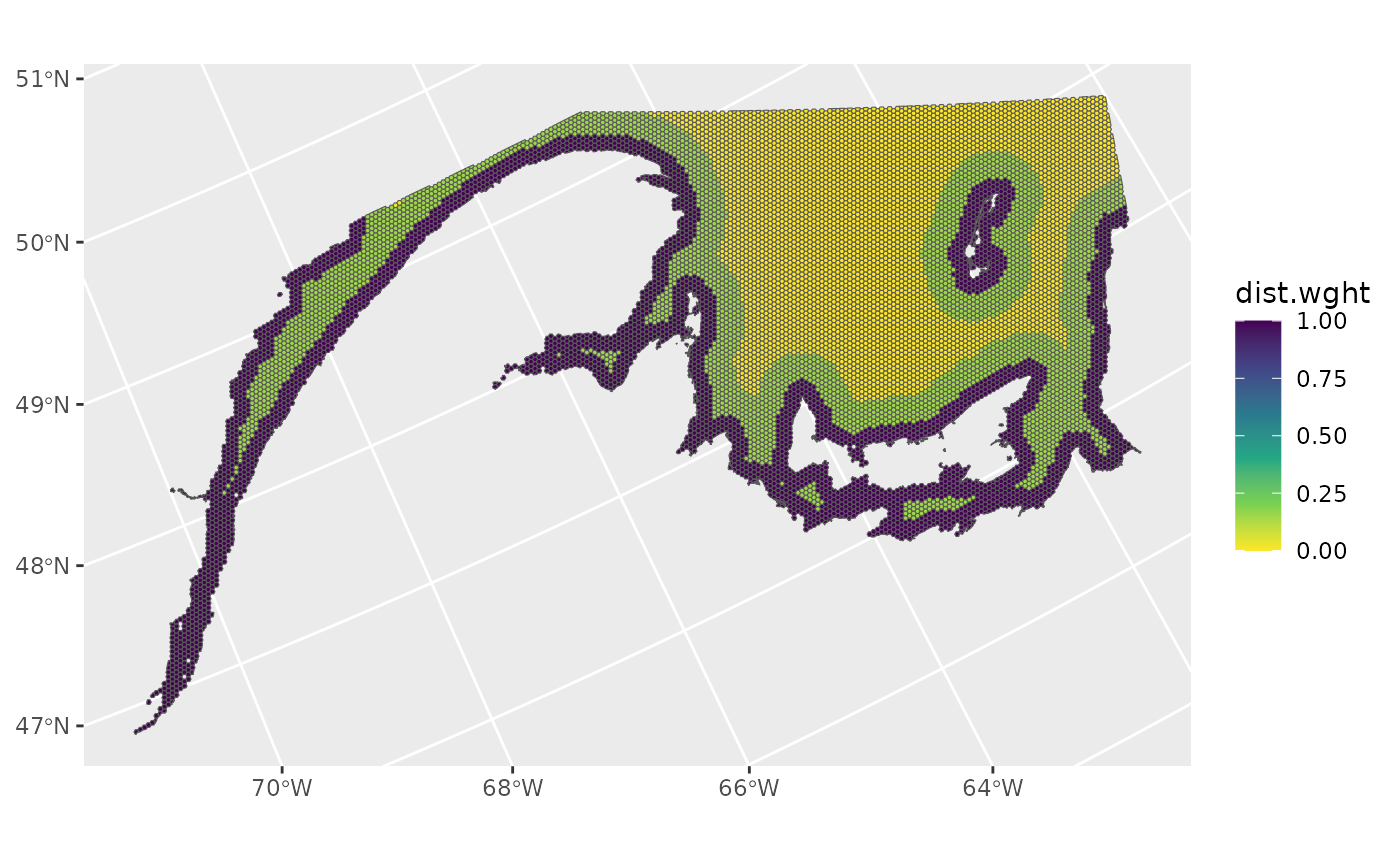
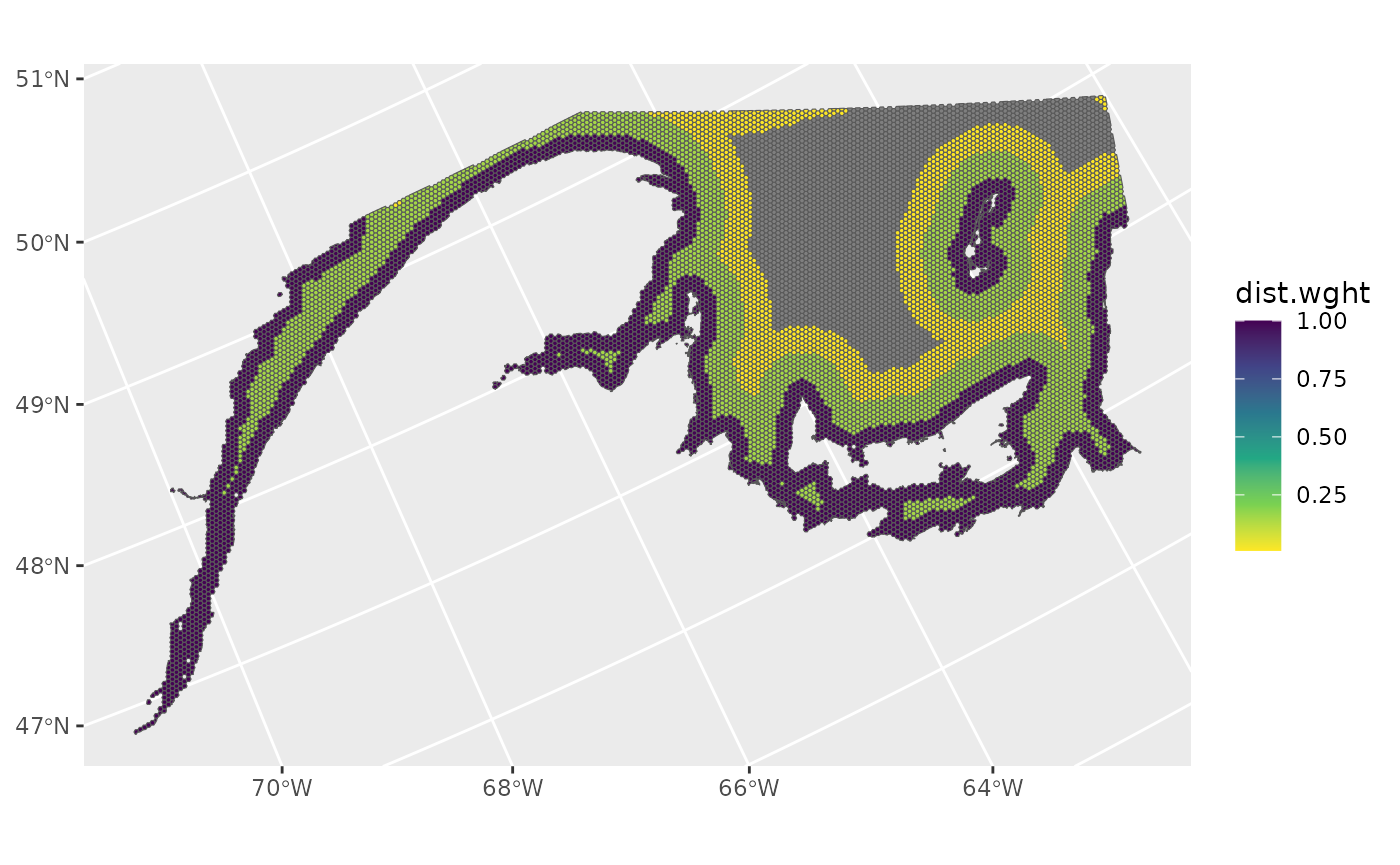
Deploying to gh-pages from @ JoleneSutton/swim@80df3017b0c0322aab3322f0a45f6b9a209e98b2 🚀

diff --git a/articles/distribution_of_sampling_weights.html b/articles/distribution_of_sampling_weights.html
@@ -78,8 +78,8 @@ respectively. Grid cells beyond 50 km are assigned sampling weights of
 <p>Next, sampling weights are generated based on depth. Spatial grid
 cells that have median depths of 10-20 m, and 20-50 m are assigned
 sampling weights of 1 and 0.5, respectively.</p>
-<p>Finally, the two different sampling weights area combined to produce
-a single sampling weight for each spatial grid cell.</p>
+<p>Finally, the two different sampling weights are combined to produce a
+single sampling weight for each spatial grid cell.</p>
 </div>
 <div class="section level2">
 <h2 id="r-packages">R packages<a class="anchor" aria-label="anchor" href="#r-packages"></a>
@@ -161,6 +161,9 @@ respectively. Grid cells beyond 50 km are assigned sampling weights of
 <span><span class="co">#&gt;                2.581e+05 ATE-1219     4.908    4T 8.762         1</span></span>
 <span><span class="co">#&gt;                2.581e+05 ATF-1219     10.57    4T 9.833         1</span></span>
 <span></span>
+<span><span class="co">#for plotting purposes, change values of zero to NA</span></span>
+<span><span class="va">ref_grid</span><span class="op">[</span><span class="fu"><a href="https://rdrr.io/r/base/which.html" class="external-link">which</a></span><span class="op">(</span><span class="va">ref_grid</span><span class="op">$</span><span class="va">dist.wght</span><span class="op">==</span><span class="fl">0</span><span class="op">)</span>,<span class="st">'dist.wght'</span><span class="op">]</span><span class="op">&lt;-</span><span class="cn">NA</span></span>
+<span></span>
 <span><span class="fu"><a href="https://ggplot2.tidyverse.org/reference/ggplot.html" class="external-link">ggplot</a></span><span class="op">(</span><span class="op">)</span><span class="op">+</span></span>
 <span>  <span class="fu"><a href="https://dieghernan.github.io/tidyterra/reference/ggspatvector.html" class="external-link">geom_spatvector</a></span><span class="op">(</span>data<span class="op">=</span><span class="va">ref_grid</span>,<span class="fu"><a href="https://ggplot2.tidyverse.org/reference/aes.html" class="external-link">aes</a></span><span class="op">(</span>fill<span class="op">=</span><span class="va">dist.wght</span><span class="op">)</span><span class="op">)</span><span class="op">+</span></span>
 <span>  <span class="fu"><a href="https://ggplot2.tidyverse.org/reference/scale_viridis.html" class="external-link">scale_fill_viridis_c</a></span><span class="op">(</span>direction<span class="op">=</span><span class="op">-</span><span class="fl">1</span><span class="op">)</span></span></code></pre></div>
@@ -182,6 +185,21 @@ All other grid cells are assigned sampling weights of 0.</p>
 <span>  <span class="va">ref_grid</span><span class="op">[</span><span class="va">index</span>,<span class="st">'depth.wght'</span><span class="op">]</span><span class="op">&lt;-</span><span class="va">weights</span><span class="op">[</span><span class="va">i</span><span class="op">]</span></span>
 <span>    <span class="op">}</span></span>
 <span></span>
+<span><span class="va">ref_grid</span></span>
+<span><span class="co">#&gt;  class       : SpatVector </span></span>
+<span><span class="co">#&gt;  geometry    : polygons </span></span>
+<span><span class="co">#&gt;  dimensions  : 11124, 7  (geometries, attributes)</span></span>
+<span><span class="co">#&gt;  extent      : 1864640, 2608453, 1092588, 1564352  (xmin, xmax, ymin, ymax)</span></span>
+<span><span class="co">#&gt;  coord. ref. : Canada_Albers_Equal_Area_Conic (ESRI:102001) </span></span>
+<span><span class="co">#&gt;  names       :  OBJECTID  GRID_ID depth.med  nafo  area dist.wght depth.wght</span></span>
+<span><span class="co">#&gt;  type        :     &lt;num&gt;    &lt;chr&gt;     &lt;num&gt; &lt;chr&gt; &lt;num&gt;     &lt;num&gt;      &lt;num&gt;</span></span>
+<span><span class="co">#&gt;  values      :  2.57e+05 ATD-1220     9.867    4T  7.84         1          0</span></span>
+<span><span class="co">#&gt;                2.581e+05 ATE-1219     4.908    4T 8.762         1          0</span></span>
+<span><span class="co">#&gt;                2.581e+05 ATF-1219     10.57    4T 9.833         1          1</span></span>
+<span></span>
+<span><span class="co">#for plotting purposes, change values of zero to NA</span></span>
+<span><span class="va">ref_grid</span><span class="op">[</span><span class="fu"><a href="https://rdrr.io/r/base/which.html" class="external-link">which</a></span><span class="op">(</span><span class="va">ref_grid</span><span class="op">$</span><span class="va">depth.wght</span><span class="op">==</span><span class="fl">0</span><span class="op">)</span>,<span class="st">'depth.wght'</span><span class="op">]</span><span class="op">&lt;-</span><span class="cn">NA</span></span>
+<span></span>
 <span><span class="fu"><a href="https://ggplot2.tidyverse.org/reference/ggplot.html" class="external-link">ggplot</a></span><span class="op">(</span><span class="op">)</span><span class="op">+</span></span>
 <span>  <span class="fu"><a href="https://dieghernan.github.io/tidyterra/reference/ggspatvector.html" class="external-link">geom_spatvector</a></span><span class="op">(</span>data<span class="op">=</span><span class="va">ref_grid</span>,<span class="fu"><a href="https://ggplot2.tidyverse.org/reference/aes.html" class="external-link">aes</a></span><span class="op">(</span>fill<span class="op">=</span><span class="va">depth.wght</span><span class="op">)</span><span class="op">)</span><span class="op">+</span></span>
 <span>  <span class="fu"><a href="https://ggplot2.tidyverse.org/reference/scale_viridis.html" class="external-link">scale_fill_viridis_c</a></span><span class="op">(</span>direction<span class="op">=</span><span class="op">-</span><span class="fl">1</span><span class="op">)</span></span></code></pre></div>
@@ -195,6 +213,23 @@ sampling weights are multiplied to produce a single sampling weight for
 each grid cell.</p>
 <div class="sourceCode" id="cb6"><pre class="downlit sourceCode r">
 <code class="sourceCode R"><span><span class="va">ref_grid</span><span class="op">$</span><span class="va">wght</span><span class="op">&lt;-</span><span class="va">ref_grid</span><span class="op">$</span><span class="va">dist.wght</span><span class="op">*</span><span class="va">ref_grid</span><span class="op">$</span><span class="va">depth.wght</span></span>
+<span></span>
+<span><span class="va">ref_grid</span></span>
+<span><span class="co">#&gt;  class       : SpatVector </span></span>
+<span><span class="co">#&gt;  geometry    : polygons </span></span>
+<span><span class="co">#&gt;  dimensions  : 11124, 8  (geometries, attributes)</span></span>
+<span><span class="co">#&gt;  extent      : 1864640, 2608453, 1092588, 1564352  (xmin, xmax, ymin, ymax)</span></span>
+<span><span class="co">#&gt;  coord. ref. : Canada_Albers_Equal_Area_Conic (ESRI:102001) </span></span>
+<span><span class="co">#&gt;  names       :  OBJECTID  GRID_ID depth.med  nafo  area dist.wght depth.wght</span></span>
+<span><span class="co">#&gt;  type        :     &lt;num&gt;    &lt;chr&gt;     &lt;num&gt; &lt;chr&gt; &lt;num&gt;     &lt;num&gt;      &lt;num&gt;</span></span>
+<span><span class="co">#&gt;  values      :  2.57e+05 ATD-1220     9.867    4T  7.84         1         NA</span></span>
+<span><span class="co">#&gt;                2.581e+05 ATE-1219     4.908    4T 8.762         1         NA</span></span>
+<span><span class="co">#&gt;                2.581e+05 ATF-1219     10.57    4T 9.833         1          1</span></span>
+<span><span class="co">#&gt;   wght</span></span>
+<span><span class="co">#&gt;  &lt;num&gt;</span></span>
+<span><span class="co">#&gt;     NA</span></span>
+<span><span class="co">#&gt;     NA</span></span>
+<span><span class="co">#&gt;      1</span></span>
 <span></span>
 <span><span class="co">#for plotting purposes, change values of zero to NA</span></span>
 <span><span class="va">ref_grid</span><span class="op">[</span><span class="fu"><a href="https://rdrr.io/r/base/which.html" class="external-link">which</a></span><span class="op">(</span><span class="va">ref_grid</span><span class="op">$</span><span class="va">wght</span><span class="op">==</span><span class="fl">0</span><span class="op">)</span>,<span class="st">'wght'</span><span class="op">]</span><span class="op">&lt;-</span><span class="cn">NA</span></span>

diff --git a/articles/distribution_of_sampling_weights.md b/articles/distribution_of_sampling_weights.md
@@ -15,7 +15,7 @@ Next, sampling weights are generated based on depth. Spatial grid cells
 that have median depths of 10-20 m, and 20-50 m are assigned sampling
 weights of 1 and 0.5, respectively.
 
-Finally, the two different sampling weights area combined to produce a
+Finally, the two different sampling weights are combined to produce a
 single sampling weight for each spatial grid cell.
 
 ## R packages
@@ -104,6 +104,9 @@ ref_grid
 #>                2.581e+05 ATE-1219     4.908    4T 8.762         1
 #>                2.581e+05 ATF-1219     10.57    4T 9.833         1
 
+#for plotting purposes, change values of zero to NA
+ref_grid[which(ref_grid$dist.wght==0),'dist.wght']<-NA
+
 ggplot()+
   geom_spatvector(data=ref_grid,aes(fill=dist.wght))+
   scale_fill_viridis_c(direction=-1)
@@ -127,6 +130,21 @@ for(i in 1:length(start.depths)){
   ref_grid[index,'depth.wght']<-weights[i]
     }
 
+ref_grid
+#>  class       : SpatVector 
+#>  geometry    : polygons 
+#>  dimensions  : 11124, 7  (geometries, attributes)
+#>  extent      : 1864640, 2608453, 1092588, 1564352  (xmin, xmax, ymin, ymax)
+#>  coord. ref. : Canada_Albers_Equal_Area_Conic (ESRI:102001) 
+#>  names       :  OBJECTID  GRID_ID depth.med  nafo  area dist.wght depth.wght
+#>  type        :     <num>    <chr>     <num> <chr> <num>     <num>      <num>
+#>  values      :  2.57e+05 ATD-1220     9.867    4T  7.84         1          0
+#>                2.581e+05 ATE-1219     4.908    4T 8.762         1          0
+#>                2.581e+05 ATF-1219     10.57    4T 9.833         1          1
+
+#for plotting purposes, change values of zero to NA
+ref_grid[which(ref_grid$depth.wght==0),'depth.wght']<-NA
+
 ggplot()+
   geom_spatvector(data=ref_grid,aes(fill=depth.wght))+
   scale_fill_viridis_c(direction=-1)
@@ -142,6 +160,23 @@ cell.
 
 ``` r
 ref_grid$wght<-ref_grid$dist.wght*ref_grid$depth.wght
+
+ref_grid
+#>  class       : SpatVector 
+#>  geometry    : polygons 
+#>  dimensions  : 11124, 8  (geometries, attributes)
+#>  extent      : 1864640, 2608453, 1092588, 1564352  (xmin, xmax, ymin, ymax)
+#>  coord. ref. : Canada_Albers_Equal_Area_Conic (ESRI:102001) 
+#>  names       :  OBJECTID  GRID_ID depth.med  nafo  area dist.wght depth.wght
+#>  type        :     <num>    <chr>     <num> <chr> <num>     <num>      <num>
+#>  values      :  2.57e+05 ATD-1220     9.867    4T  7.84         1         NA
+#>                2.581e+05 ATE-1219     4.908    4T 8.762         1         NA
+#>                2.581e+05 ATF-1219     10.57    4T 9.833         1          1
+#>   wght
+#>  <num>
+#>     NA
+#>     NA
+#>      1
 
 #for plotting purposes, change values of zero to NA
 ref_grid[which(ref_grid$wght==0),'wght']<-NA
